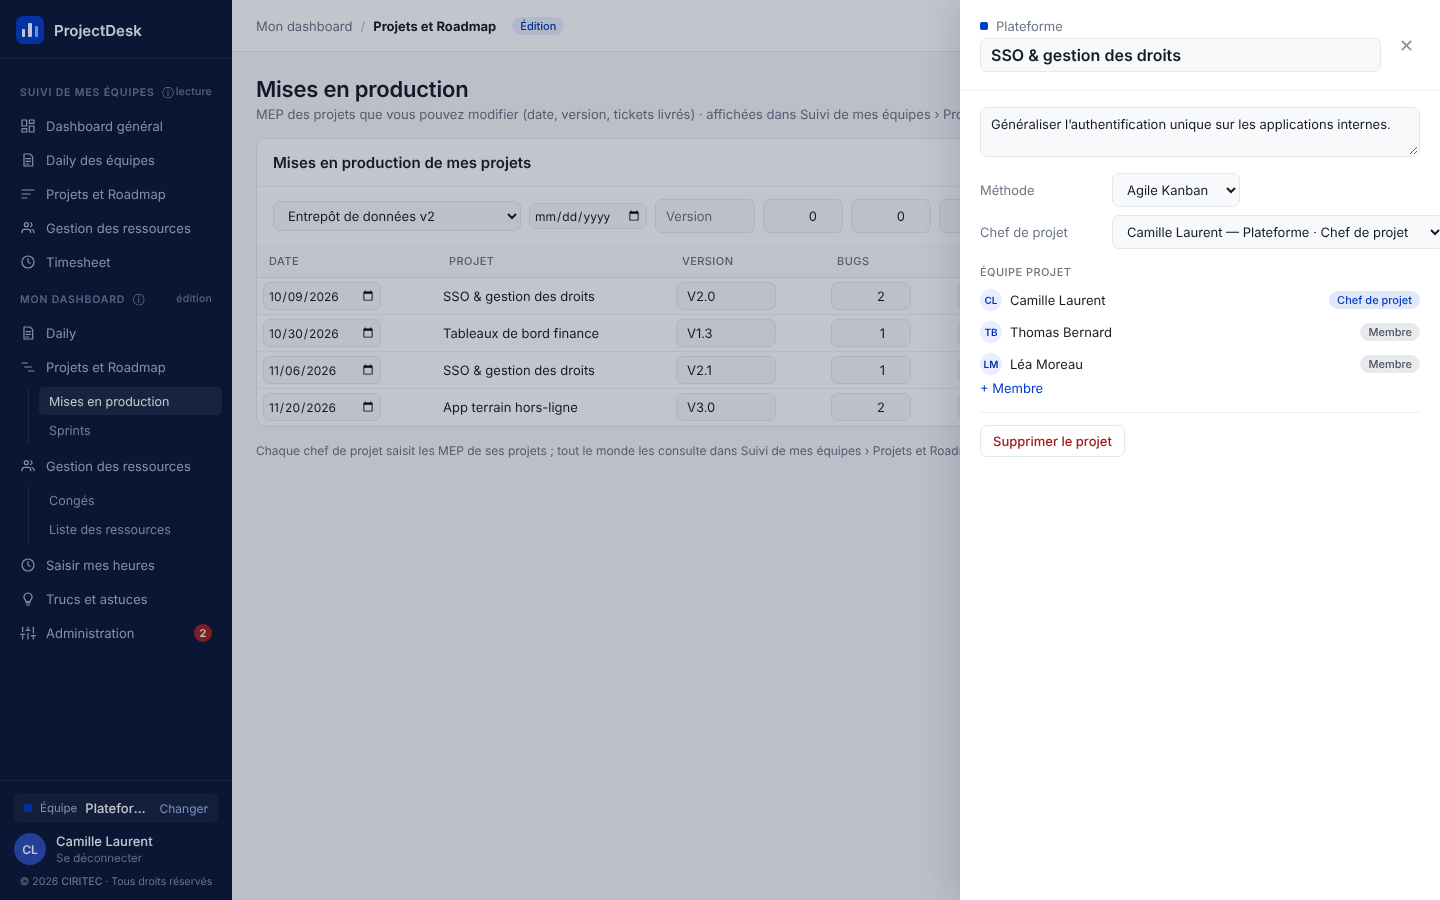
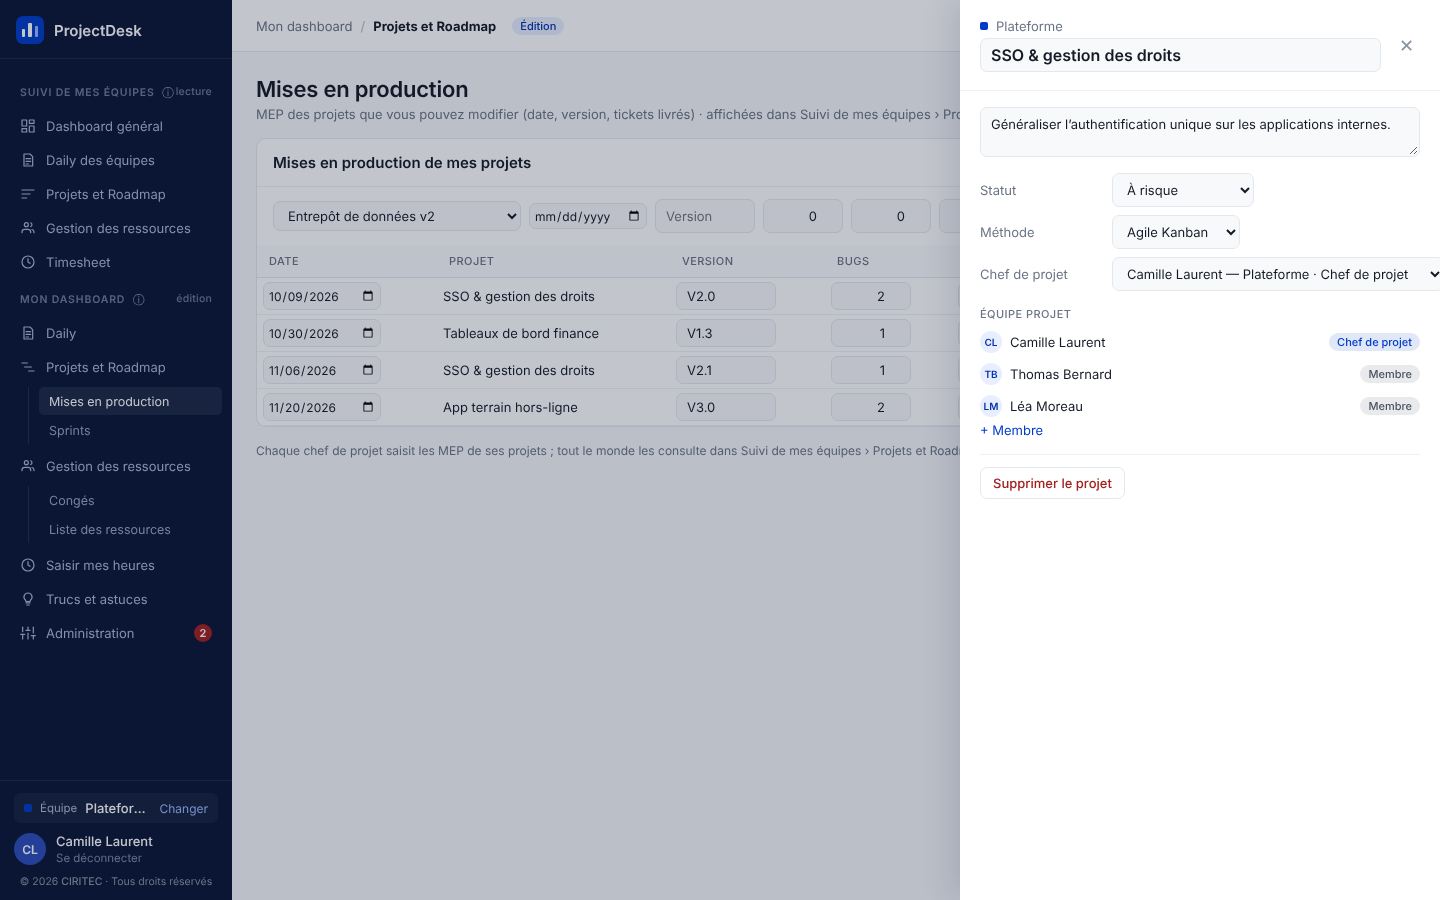
Statut du projet modifiable dans le panneau projet ; statuts ajoutables depuis Administration (2.54)
Claude-Session: https://claude.ai/code/session_016gJ86ah3wuZcBiGAqfo7RG

diff --git a/app/index.html b/app/index.html
@@ -11,7 +11,7 @@
 <link href="https://fonts.googleapis.com/css2?family=IBM+Plex+Sans:wght@400;500;600;700&family=IBM+Plex+Mono:wght@400;500&display=swap" rel="stylesheet">
 <!-- ?v= : version des fichiers (= version du DAT), à changer à chaque livraison : force le navigateur
      à recharger le code au lieu de réutiliser une ancienne copie en mémoire. -->
-<link rel="stylesheet" href="css/theme.css?v=2.53">
+<link rel="stylesheet" href="css/theme.css?v=2.54">
 </head>
 <body>
   <!-- Toute l'interface est dessinée dans #app par js/coquille.js et js/ecrans/*.js -->
@@ -19,32 +19,32 @@
   <div id="notification" class="notification" role="status"></div>
 
   <!-- Ordre de chargement : configuration, outils, état, puis écrans (qui s'enregistrent dans Ecrans) -->
-  <script src="js/config.js?v=2.53"></script>
-  <script src="js/api.js?v=2.53"></script>
-  <script src="js/calculs.js?v=2.53"></script>
-  <script src="js/etat.js?v=2.53"></script>
-  <script src="js/composants.js?v=2.53"></script>
-  <script src="js/coquille.js?v=2.53"></script>
-  <script src="js/panneau-projet.js?v=2.53"></script>
-  <script src="js/modale.js?v=2.53"></script>
-  <script src="js/excel.js?v=2.53"></script>
-  <script src="js/roles.js?v=2.53"></script>
-  <script src="js/simulation.js?v=2.53"></script>
-  <script src="js/ecrans/connexion.js?v=2.53"></script>
-  <script src="js/ecrans/choix-equipe.js?v=2.53"></script>
-  <script src="js/ecrans/dashboard.js?v=2.53"></script>
-  <script src="js/ecrans/projets.js?v=2.53"></script>
-  <script src="js/ecrans/ressources.js?v=2.53"></script>
-  <script src="js/ecrans/administration.js?v=2.53"></script>
-  <script src="js/ecrans/timesheet.js?v=2.53"></script>
-  <script src="js/ecrans/daily-equipes.js?v=2.53"></script>
-  <script src="js/ecrans/daily.js?v=2.53"></script>
-  <script src="js/ecrans/mes-projets.js?v=2.53"></script>
-  <script src="js/ecrans/sprints.js?v=2.53"></script>
-  <script src="js/ecrans/conges.js?v=2.53"></script>
-  <script src="js/ecrans/liste-ressources.js?v=2.53"></script>
-  <script src="js/ecrans/mon-timesheet.js?v=2.53"></script>
-  <script src="js/ecrans/mon-admin.js?v=2.53"></script>
-  <script src="js/ecrans/astuces.js?v=2.53"></script>
+  <script src="js/config.js?v=2.54"></script>
+  <script src="js/api.js?v=2.54"></script>
+  <script src="js/calculs.js?v=2.54"></script>
+  <script src="js/etat.js?v=2.54"></script>
+  <script src="js/composants.js?v=2.54"></script>
+  <script src="js/coquille.js?v=2.54"></script>
+  <script src="js/panneau-projet.js?v=2.54"></script>
+  <script src="js/modale.js?v=2.54"></script>
+  <script src="js/excel.js?v=2.54"></script>
+  <script src="js/roles.js?v=2.54"></script>
+  <script src="js/simulation.js?v=2.54"></script>
+  <script src="js/ecrans/connexion.js?v=2.54"></script>
+  <script src="js/ecrans/choix-equipe.js?v=2.54"></script>
+  <script src="js/ecrans/dashboard.js?v=2.54"></script>
+  <script src="js/ecrans/projets.js?v=2.54"></script>
+  <script src="js/ecrans/ressources.js?v=2.54"></script>
+  <script src="js/ecrans/administration.js?v=2.54"></script>
+  <script src="js/ecrans/timesheet.js?v=2.54"></script>
+  <script src="js/ecrans/daily-equipes.js?v=2.54"></script>
+  <script src="js/ecrans/daily.js?v=2.54"></script>
+  <script src="js/ecrans/mes-projets.js?v=2.54"></script>
+  <script src="js/ecrans/sprints.js?v=2.54"></script>
+  <script src="js/ecrans/conges.js?v=2.54"></script>
+  <script src="js/ecrans/liste-ressources.js?v=2.54"></script>
+  <script src="js/ecrans/mon-timesheet.js?v=2.54"></script>
+  <script src="js/ecrans/mon-admin.js?v=2.54"></script>
+  <script src="js/ecrans/astuces.js?v=2.54"></script>
 </body>
 </html>

diff --git a/tests/parcours.js b/tests/parcours.js
@@ -361,9 +361,19 @@ const verifier = (nom, condition, detail = '') => { resultats.push({ nom, ok: !!
     // Panneau projet (édition, section Mon dashboard) : PF-14, projet dont Camille est cheffe
     await page.evaluate(() => Actions.ouvrirProjet({ id: etat.d.projets.find(p => p.code === 'PF-14').id })); await page.waitForTimeout(200);
     await capture('10-panneau-projet');
-    verifier('Panneau : ni objectif, ni période, ni statut, ni avancement, ni tickets',
-      !(await page.$('.panneau [data-champ="statut"], .panneau [data-champ="fin"], .panneau input[type=range], .panneau form[data-action-envoi="ajouterTicket"]'))
-      && !(await page.textContent('.panneau')).includes('Résultat clé'));
+    verifier('Panneau : ni objectif, ni période, ni avancement, ni tickets (le statut, lui, est modifiable)',
+      !(await page.$('.panneau [data-champ="fin"], .panneau input[type=range], .panneau form[data-action-envoi="ajouterTicket"]'))
+      && !(await page.textContent('.panneau')).includes('Résultat clé') && !!(await page.$('.panneau select[data-champ="statut"]')));
+    // Statut du projet modifiable par le chef de projet ou le responsable ; un statut ajouté dans Administration › Référentiels est proposé
+    await page.evaluate(() => { const f = document.createElement('form'); f.innerHTML = '<input name="libelle" value="En pause">'; Actions.ajouterValeur({ ref: 'stp' }, f); });
+    await page.waitForTimeout(400);
+    await page.evaluate(() => Actions.ouvrirProjet({ id: etat.d.projets.find(p => p.code === 'PF-14').id })); await page.waitForTimeout(200);
+    const statutsPanneau = await page.$$eval('.panneau select[data-champ="statut"] option', o => o.map(x => x.textContent.trim()));
+    await page.selectOption('.panneau select[data-champ="statut"]', 'En pause'); await page.waitForTimeout(400);
+    verifier('Panneau projet : statut modifiable, statut ajouté dans les référentiels proposé et enregistré',
+      statutsPanneau.includes('En pause') && statutsPanneau.includes('Planifié') && await page.evaluate(() => etat.d.projets.find(p => p.code === 'PF-14').statut === 'En pause'),
+      statutsPanneau.join(', '));
+    await page.selectOption('.panneau select[data-champ="statut"]', 'À risque'); await page.waitForTimeout(400);
     await page.click('.fermer');
     /* Mon dashboard › Projets et Roadmap › MEP (2026-10-23) : saisie des mises en production des projets modifiables */
     const nbMep = async () => page.$$eval('[data-action-change="majMep"][data-champ="jour"]', l => l.length);

diff --git a/app/js/panneau-projet.js b/app/js/panneau-projet.js
@@ -1,8 +1,9 @@
 /* ============================================================
    Panneau latéral « Projet » (maquette 11-panneau-projet.png)
    - Détail réduit à la demande du porteur (2026-09-25) : nom,
-     description, chef de projet, équipe projet (membres et rôles).
-     Résultat clé, période, statut, avancement et tickets ne
+     description, chef de projet, équipe projet (membres et rôles) ;
+     + statut (2026-10-26, liste « Statuts projet » d'Administration › Référentiels).
+     Résultat clé, période, avancement et tickets ne
      sont plus affichés ici (colonnes conservées en base).
      Modifiable si peutEditerProjet (sinon lecture) ; suppression du
      projet par un membre de son équipe (règle RLS).
@@ -39,6 +40,8 @@ const Panneau = {
         ${editable ? champ('description', `<textarea class="champ" rows="2" placeholder="Description" <CHAMP>${esc(p.description || '')}</textarea>`)
           : p.description ? `<div>${esc(p.description)}</div>` : ''}
         <div class="infos">
+          <span>Statut</span><span>${editable ? champ('statut', C.liste(statutsProposes(p), p.statut, 'class="champ largeur-auto" <CHAMP'))
+            : C.badgeRef('stp', p.statut)}</span>
           <span>Méthode</span><span>${editable ? champ('methode', C.liste([{ valeur: '', libelle: '— à choisir —' }, ...valeursDe('methode').map(v => v.libelle)],
             p.methode || '', 'class="champ largeur-auto" <CHAMP'))
             : p.methode ? C.badgeRef('methode', p.methode) : '—'}</span>
@@ -89,6 +92,13 @@ const Panneau = {
       <div class="panneau-pied"><button type="button" class="btn" data-action="fermer">Annuler</button><button class="btn primaire">Créer le projet</button></div>
     </form></aside>`;
   }
+};
+
+// Statuts proposés pour un projet : les valeurs actives du référentiel « stp » (Administration › Référentiels, où l'on en ajoute),
+// plus le statut actuel du projet s'il a été désactivé depuis, pour ne pas le perdre à l'affichage
+const statutsProposes = p => {
+  const libelles = valeursDe('stp').map(v => v.libelle);
+  return libelles.includes(p.statut) ? libelles : [p.statut, ...libelles];
 };
 
 Object.assign(Actions, {

diff --git a/docs/DAT.md b/docs/DAT.md
@@ -168,6 +168,7 @@
 | 2.51    | 2026-10-26 | **Le rôle Utilisateur n'a plus le sous-menu « Liste des ressources » de Mon dashboard** (porteur : « le profil utilisateur ne voit pas le menu liste des ressources ») : ce sous-menu est ouvert seulement si le rôle a l'un de ses deux droits dans la matrice (« Fiches des personnes » `fiches_ressources` ou « Affecter » `affecter`) — le rôle Utilisateur a « Non » aux deux, il ne garde que Congés ; les autres rôles sont inchangés. Aucune donnée modifiée (matrice inchangée) ; le contrôle de cohérence matrice ↔ affichage (2.46) couvre ce sous-menu. L'onglet « Liste des ressources » de Suivi de mes équipes › Gestion des ressources reste ouvert à tous (droit `onglet_ressources_liste`). 140 contrôles |
 | 2.52    | 2026-10-26 | **Objectif de jours du client rétabli** (porteur : « dans le récap annuel, le nombre de jours travaillés imposé par le client n'est plus affiché ») : retour de la version 2.49 pour Congés › Récap annuel — jours attendus par le client modifiables par équipe et par année (défaut 218 j), colonne « Reste à prendre », proratisation à l'arrivée ou au départ ; constante `JOURS_TRAVAIL_CLIENT_DEFAUT`, aide `objectifClient`, chargement de `objectifs_jours_travail` et libellé du droit « Congés et objectif de jours des autres » restaurés. La table n'avait jamais été modifiée (sa ligne est intacte). Les OKR et le retrait des OKR des fiches pédagogiques restent. 141 contrôles |
 | 2.53    | 2026-10-26 | **Mon dashboard ne disparaît plus quand « Daily · Saisir mes heures » passe à Non ; choix d'équipe revu** (porteur : « j'ai mis Non pour le daily … et tout a disparu » ; « elle a le bouton Changer mais elle ne peut pas … je veux une croix pour fermer la pop-in »). (1) Le droit `mon_dashboard` (« Saisir son daily, ses heures et ses congés ») ne gouverne plus que les menus **Daily** et **Saisir mes heures** ; la section Mon dashboard se ferme seulement en **Lecture seule** (migration 030) ou quand aucun de ses menus n'est ouvert, chaque autre menu suivant ses propres lignes (Projets et Roadmap, Congés, Liste des ressources, Trucs et astuces, Administration) ; un écran fermé affiche « Écran non ouvert à votre rôle ». Conséquence : les rôles dont `mon_dashboard` est « Non » en base (Direction) voient désormais les menus de Mon dashboard que la matrice leur ouvre. Test ajouté : Responsable avec Daily à Non garde Congés, Astuces, Administration. (2) Le lien **Changer** d'équipe (barre latérale) n'apparaît que s'il y a un choix (au moins deux équipes ou une invitation) ; la fenêtre « Choix de l'équipe » a une **croix ✕** qui revient à l'écran précédent (plus de bouton Déconnexion tant qu'une équipe est ouverte ; le lien reste à la première connexion sans équipe ouverte et pour un compte en attente d'accès). Aucune donnée modifiée. 143 contrôles |
+| 2.54    | 2026-10-26 | **Statut du projet modifiable** (porteur : « c'est quoi ce statut Planifié ? » puis choix de le rendre modifiable, et d'en ajouter depuis Administration) : le panneau projet affiche le **statut** (liste déroulante pour qui peut modifier le projet : chef de projet, affecté Membre, responsable ou direction de l'unité, administrateur — règle `peut_editer_projet` + droit « Projets » ; badge en lecture sinon). La liste est celle du référentiel « Statuts projet » (`stp`) : **Administration › Référentiels** permet déjà d'en ajouter, renommer, recolorer, désactiver (les cinq statuts d'origine restent « système », renommables, non supprimables, et pilotent le Dashboard : À risque / En retard remontent dans « Projets à surveiller », Terminé sort des projets actifs ; un statut ajouté est neutre pour ces calculs). Un statut désactivé reste affiché sur les projets qui l'ont. Aucune migration : `projets.statut` est un texte libre sans contrainte. Aucune donnée touchée. 144 contrôles |
 | 1.44    | 2026-09-27 | Calcul type Scrum : formule déplacée dans une pop-in (bouton « Comment est-ce calculé ? » en haut à droite), avec un exemple chiffré sur CDO (membres, jours ouvrés, absences, cérémonies, focus) (§ 2.1, § 3.3) |
 
 ---
@@ -531,7 +532,7 @@ refusée sur `referentiels` et `administrateurs` (usurpation).
 | Outil | Contenu |
 |-------|---------|
 | `tests/serveur-simule.js` | Neon Auth (dont Google simulé) + Data API simulés en mémoire, identifiants numérotés (et non aléatoires) pour des captures reproductibles, données de la maquette (comptes `camille@test.fr` administratrice/owner, `thomas@test.fr` membre, `elodie@test.fr` demandeuse, `admin@test.fr` administratrice sans équipe ; mot de passe `motdepasse`) |
-| `tests/parcours.js` | Parcours Playwright de bout en bout (143 contrôles, dont « Suivi de mes équipes en lecture seule », l'aller-retour Google simulé, le parcours administrateur sans équipe, le daily des équipes, l'export Excel du daily, le plan de charge et le board des ressources) + captures `docs/maquettes/etat-actuel/` |
+| `tests/parcours.js` | Parcours Playwright de bout en bout (144 contrôles, dont « Suivi de mes équipes en lecture seule », l'aller-retour Google simulé, le parcours administrateur sans équipe, le daily des équipes, l'export Excel du daily, le plan de charge et le board des ressources) + captures `docs/maquettes/etat-actuel/` |
 | `scripts/verifier-docs.js` | Cohérence documentation ↔ code après chaque commit (§ 11) |
 
 Les règles RLS ne sont pas simulées : elles sont vérifiées en base et lors de la recette réelle.
